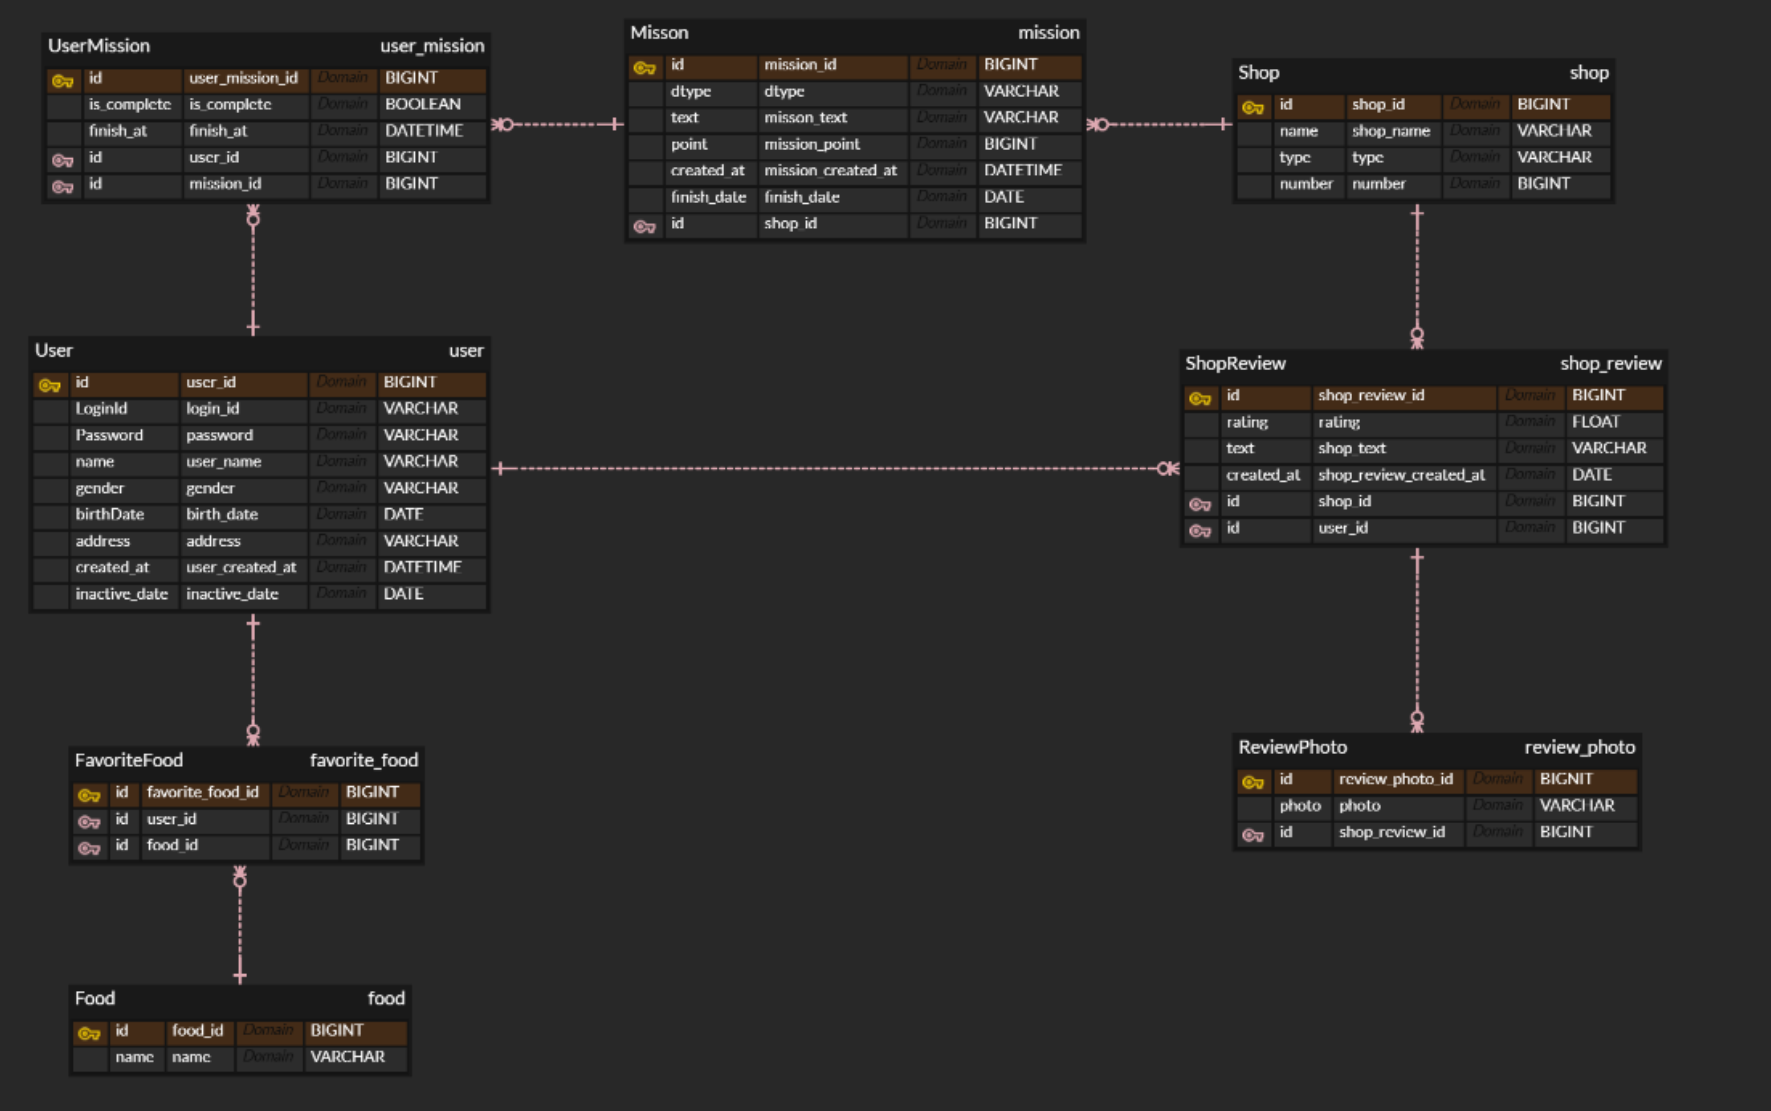
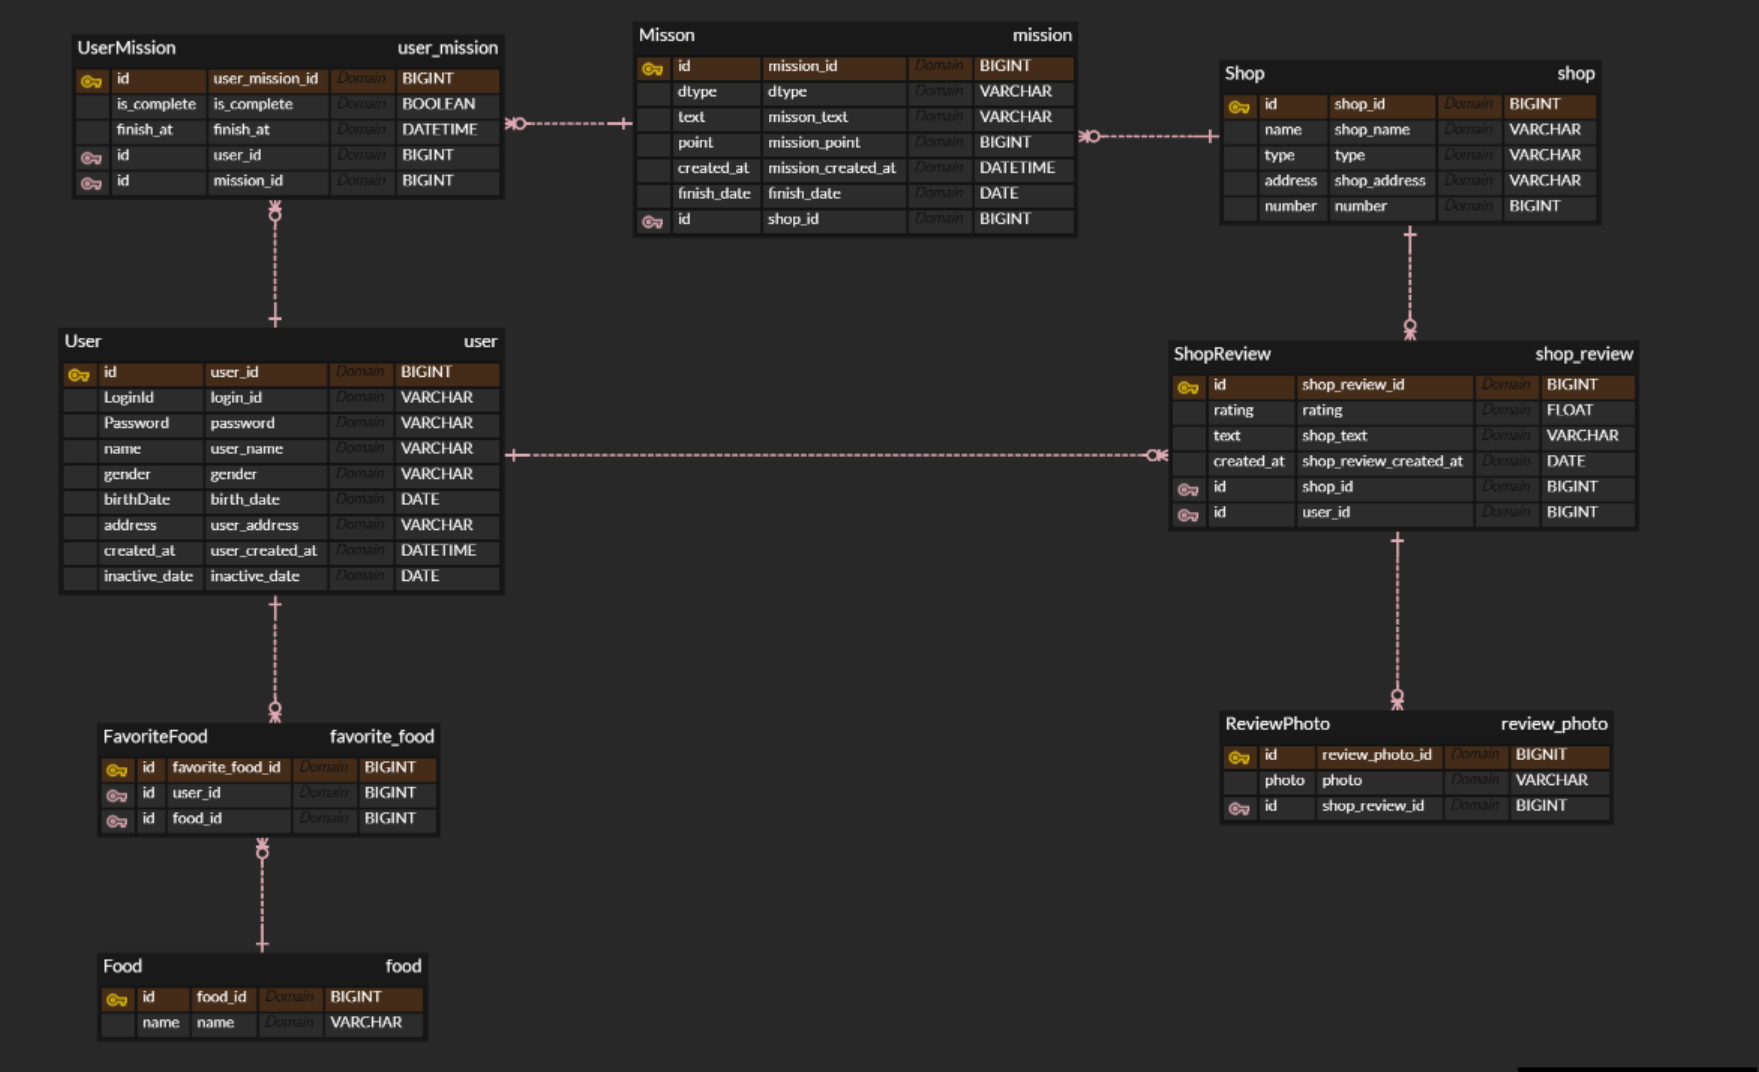
update Week01 (mission finish)

diff --git a/Week01/README.md b/Week01/README.md
@@ -286,9 +286,12 @@ WHERE sr.shop_id = ?;
 - ?의 자리에 프론트에서 받아온 가게 id를 삽입할 수 있다
 - 필요하다면 SELECT의 뒤에 원하는 데이터만을 명시할 수 있다
 
+<br/>
+
 ### 마이 페이지 정보 가져오기
 ```sql
-SELECT u.user_name, u.gender, u.birth_date, u.address, SUM(m.point) AS total_point
+SELECT u.user_name, u.gender, u.birth_date, u.user_address,
+       SUM(m.point) AS total_point
 FROM user AS u
 LEFT JOIN user_mission AS um ON u.user_id = um.user_id
 LEFT JOIN mission AS m ON um.mission_id = m.mission_id
@@ -318,28 +321,53 @@ GROUP BY u.user_id, u.user_name, u.gender, u.birth_date, u.address;
 - 두 번에 나눠 쿼리를 작성할 경우 DB에 두 번의 요청이 가게 되므로 비효율적이다
 - 또한 두 쿼리의 실행 사이 데이터가 변경될 가능성이 있다
 
+<br/>
+
 ### 미션 모아보기
 #### 페이징 전의 코드
 ```sql
-SELECT um.is_complete, um.finish_at, m.dtype, m.mission_text, m.mission_point, m.finish_date
+SELECT um.is_complete, um.finish_at, m.dtype, 
+       m.mission_text, m.mission_point, m.finish_date, s.shop_name
 FROM user_mission AS um
 INNER JOIN mission AS m ON um.mission_id = m.mission_id
+INNER JOIN shop AS s ON m.shop_id = s.shop_id
 WHERE um.user_id = ?
 ORDER BY m.finish_date DESC
 ```
 - user_mission에 mission 테이블을 join 한다
 - 이때 미션 id가 같은 데이터들만이 join 된다
+- 결과 테이블에 shop 테이블을 join 한다 (가게 이름을 가져와야 함)
 - 이후 결과 테이블에서 프론트가 요청한 user_id를 가진 데이터만을 가져온다
 - 가져온 데이터들을 마감 시간을 기준으로 정렬한다
 
 #### 페이징 후의 코드
 ```sql
-SELECT um.is_complete, um.finish_at, m.dtype, m.mission_text, m.mission_point, m.finish_date
+SELECT um.is_complete, um.finish_at, m.dtype, m.mission_text,
+       m.mission_point, m.finish_date, s.shop_name
 FROM user_mission AS um
 INNER JOIN mission AS m ON um.mission_id = m.mission_id
+INNER JOIN shop AS s ON m.shop_id = s.shop_id
 WHERE um.user_id = ? AND (m.finish_date, um.user_mission_id) < (?, ?)
 ORDER BY m.finish_date DESC, um.user_mission_id DESC
 LIMIT 10;
 ```
 - 페이징을 위해 마감 기한과 유저 미션 id를 튜플 조건으로 사용하였다
 - 페이징 중 마감 기한이 같은 값을 만날 경우 user_mission_id를 통해 순서를 구분한다
+- 커서 조건 (m.finish_date, um.user_mission_id) < (?, ?)의 경우 첫 번째 페이지를 조회할 때는 사용되지 않도록 별도의 조치가 필요하다
+
+<br/>
+
+### 홈 화면 
+#### 현재 선택 된 지역에서 도전이 가능한 미션 목록 보여주기
+```sql
+SELECT m.dtype, m.mission_text, m.mission_point, m.finish_date, s.shop_name
+FROM mission AS m
+INNER JOIN shop AS s ON m.shop_id = s.shop_id
+WHERE s.shop_address = ? AND (m.finish_date, m.mission_id) < (?, ?)
+ORDER BY m.finish_date DESC, m.mission_id DESC
+LIMIT 10;
+```
+- 미션 테이블과 shop 테이블을 shop_id를 기준으로 join
+- 유저가 선택한 주소와 일치하는 주소를 가진 미션의 정보를 반환
+- 페이징 구현
+- 해당 쿼리문은 shop_address가 정확히 일치하는 가게만을 리턴하도록 설정되어 있다 → 주소 클래스 등을 새로 만들어 해당 부분을 해결할 수 있다
